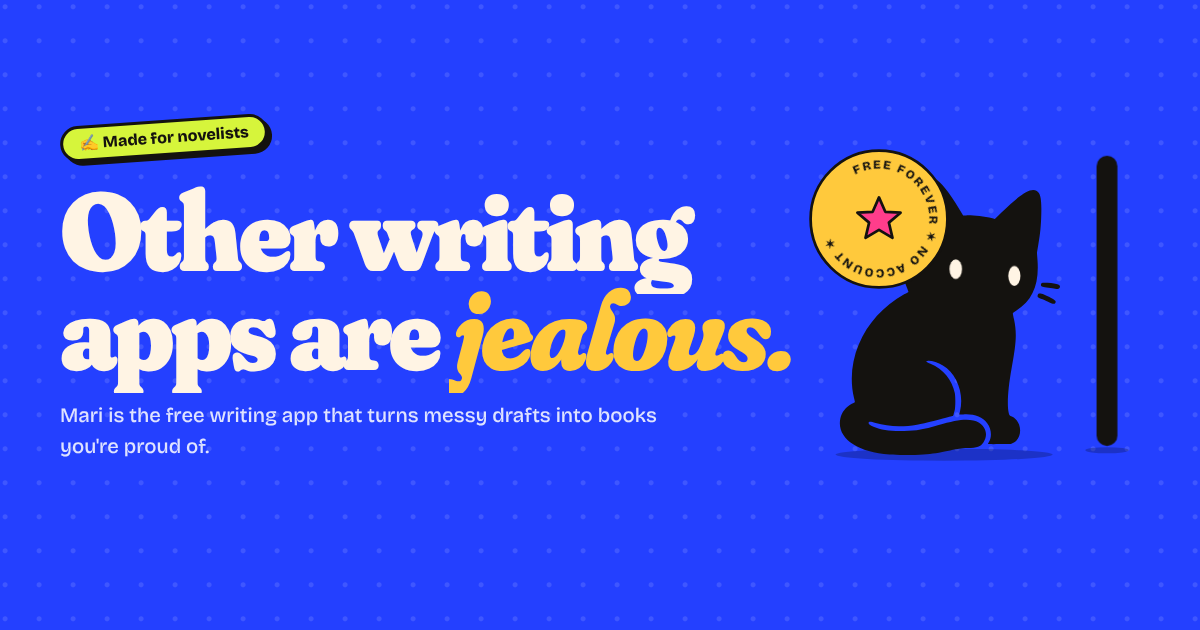
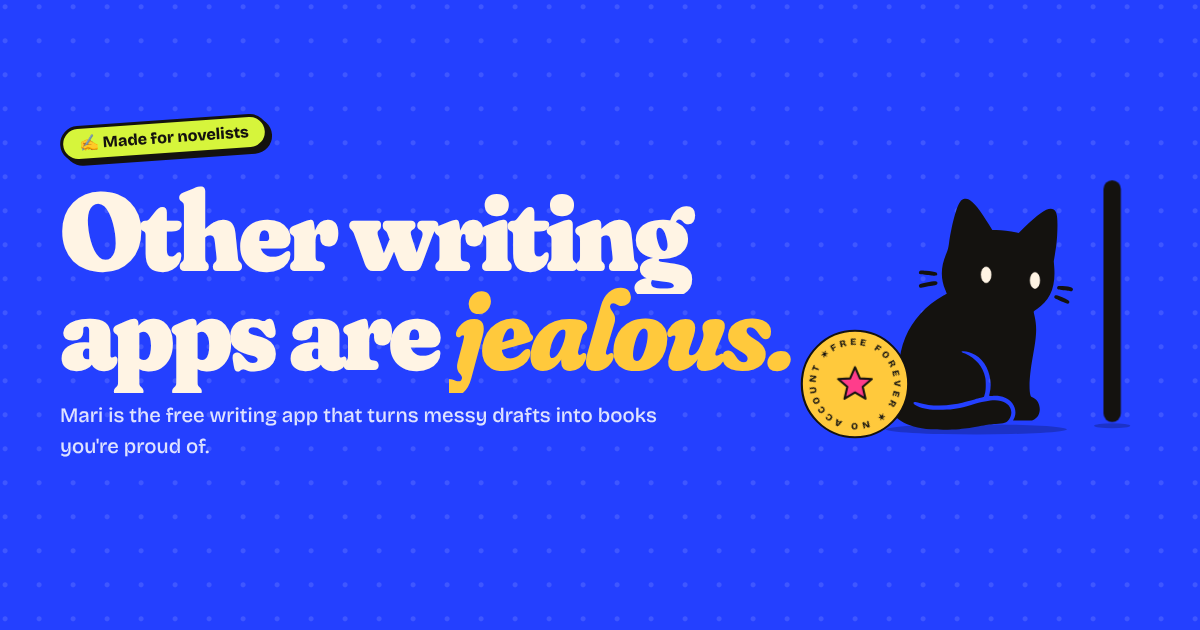
Add the Russian copy, a Russian share page and share pictures
The Russian was written by three translators in different voices, then
chosen and polished by an editor and checked by a proofreader. It uses
the app's own Russian words (Ящик for the drawer) and ties short words
to the next one so none hangs at a line end. /ru/ carries Russian link
previews for Telegram and VK and sends people on to the page in Russian.

Changed region(s): [[0.6475, 0.2111, 0.9558, 0.754]]

diff --git a/docs/index.html b/docs/index.html
@@ -75,6 +75,9 @@ html:lang(ru) {
   --sans: "Onest", "Bricolage Grotesque", system-ui, -apple-system, "Segoe UI", sans-serif;
 }
 html:lang(ru) h1, html:lang(ru) h2, html:lang(ru) h3 { letter-spacing: -.03em; line-height: .92; }
+/* Russian words run long («Переписывай», «программы»): headings step down a size so every word fits its column */
+html:lang(ru) .beat h3 { font-size: clamp(2.3rem, 4.4vw, 4.2rem); }
+html:lang(ru) .reasons-head { font-size: clamp(2.6rem, 7vw, 6.4rem); }
 
 /* while the language is being worked out, the hero's words wait (never longer than 2s) */
 .i18n-wait .hero-copy, .i18n-wait .nav .btn, .i18n-wait .shot .sticker { visibility: hidden; animation: i18n-show 0s 2s forwards; }
@@ -230,7 +233,7 @@ h1 em, h2 em, h3 em { font-style: italic; font-weight: 800; }
 @keyframes twR { 50% { transform: rotate(9deg); } }
 
 .badge {
-  position: absolute; z-index: 3; left: -6%; top: 2%;
+  position: absolute; z-index: 3; left: -8%; top: 40%;
   width: clamp(110px, 12vw, 150px); aspect-ratio: 1;
 }
 .badge svg { width: 100%; height: 100%; overflow: visible; }
@@ -238,7 +241,7 @@ h1 em, h2 em, h3 em { font-style: italic; font-weight: 800; }
 .badge text { font: 800 13.5px var(--sans); letter-spacing: .14em; fill: var(--ink); }
 @keyframes spin { to { transform: rotate(360deg); } }
 .bubble {
-  position: absolute; z-index: 4; right: 2%; top: -2%;
+  position: absolute; z-index: 4; right: -2%; top: -4%;
   max-width: 13em; padding: .6rem 1rem;
   border: var(--line); border-radius: 20px 20px 4px 20px;
   background: var(--paper); color: var(--ink);
@@ -418,7 +421,7 @@ footer nav a:hover { color: var(--pink); }
   .cta .btn { width: 100%; }
   .hero-art { max-width: 300px; }
   .bubble { font-size: 1.3rem; }
-  .badge { left: -4%; }
+  .badge { left: -6%; }
   .shot .sticker { display: none; }
   .beat { box-shadow: 6px 6px 0 var(--ink); }
   .peek { width: 110px; top: -62px; }
@@ -648,7 +651,77 @@ footer nav a:hover { color: var(--pink); }
    change it here. */
 window.I18N = (() => {
   const RU = {
-
+    "meta.title": "Mari · Другие программы нервно курят",
+    "meta.description": "Мари превращает сырой черновик в книгу, которой хочется хвастаться. Бесплатная программа для писателей на Windows, macOS и Linux.",
+    "nav.home": "Мари, в\u00a0начало страницы",
+    "nav.cta": "Скачать",
+    "lang.label": "Язык",
+    "hero.sticker": "✍ Для романистов",
+    "hero.h1": "Другие программы <em class=\"gold\">нервно курят.</em>",
+    "hero.sub": "Мари превращает твой сырой черновик в\u00a0книгу, которой хочется хвастаться. И\u00a0не\u00a0берёт за\u00a0это ни\u00a0копейки.",
+    "hero.cta": "Скачать бесплатно",
+    "hero.platforms": "Windows · Mac · Linux",
+    "hero.badge": "БЕСПЛАТНО ✶ БЕЗ АККАУНТА ✶",
+    "hero.petLabel": "Погладить Мари",
+    "cat.hello": "Привет, я\u00a0Мари. Погладь меня.",
+    "cat.line1": "Мрр?",
+    "cat.line2": "У\u00a0тебя дыра в\u00a0сюжете. Прикройся.",
+    "cat.line3": "Это наречие? Под нож.",
+    "cat.line4": "Третья глава сыровата. Уж\u00a0я-то знаю.",
+    "cat.line5": "Я\u00a0посидела на\u00a0клавиатуре. Не\u00a0благодари.",
+    "cat.line6": "Убей своих любимцев. Кроме меня.",
+    "cat.line7": "Делу время, котику час.",
+    "shot.alt": "Окно Мари с\u00a0открытой главой: фрагменты размечены цветом, слева список глав, справа карта главы",
+    "shot.s1": "Твоя книга. При параде.",
+    "shot.s2": "100% бесплатно",
+    "band.1": "Бесплатно навсегда",
+    "band.2": "Без регистрации",
+    "band.3": "Без подписки",
+    "band.4": "Файлы остаются у\u00a0тебя",
+    "band.5": "Windows, Mac и\u00a0Linux",
+    "band.6": "Кошка в\u00a0комплекте",
+    "reasons.h2": "Четыре причины сжечь <em>мосты.</em>",
+    "b1.h3": "Читай глазами <em>редактора.</em>",
+    "b1.p": "Отмечай, где текст поёт, где провисает и\u00a0что стоит не\u00a0на\u00a0своём месте. Прямо на\u00a0странице.",
+    "b1.alt": "Фрагменты главы размечаются разными цветами",
+    "b2.h3": "Переписывай <em>без страха.</em>",
+    "b2.p": "Пробуй новый вариант прямо рядом со\u00a0старым. Ни\u00a0одна заменённая версия не\u00a0пропадёт.",
+    "b2.alt": "Два варианта фрагмента рядом, изменённые слова выделены",
+    "b3.h3": "Убей своих любимцев. Пусть сыграют <em>в\u00a0ящик.</em>",
+    "b3.p": "Вырезанные сцены летят в\u00a0«Ящик», а\u00a0не\u00a0в\u00a0корзину. Достанешь, когда захочешь.",
+    "b3.alt": "Вырезанный фрагмент уходит в\u00a0«Ящик», а\u00a0потом его достают и\u00a0перечитывают",
+    "b4.h3": "А\u00a0теперь просто <em>пиши.</em>",
+    "b4.p": "Одна клавиша, и\u00a0исчезает всё, кроме твоих слов.",
+    "b4.alt": "Режим фокусировки: на\u00a0экране ничего, кроме текста",
+    "trailer.h2": "Мари <em>в\u00a0деле.</em>",
+    "dl.pixelAlt": "Кошка Мари моргает и\u00a0вылизывает лапку",
+    "dl.kick": "Скачать",
+    "dl.h2": "Второй черновик тебя заждался.",
+    "dl.lede": "Мари работает на\u00a0Windows, macOS и\u00a0Linux. Выбирай свою систему и\u00a0садись писать.",
+    "dl.rec": "Твой компьютер",
+    "dl.win.btn": "Скачать установщик",
+    "dl.win.alt": "Или <a data-asset=\"msi\" href=\"https://github.com/spacekestrel/mari/releases/latest\">.msi</a>, если на\u00a0работе нужен именно он",
+    "dl.mac.btn": "Apple silicon (M1 и\u00a0новее)",
+    "dl.mac.alt": "Mac постарше? Бери <a data-asset=\"dmg-intel\" href=\"https://github.com/spacekestrel/mari/releases/latest\">версию для Intel</a>",
+    "dl.mac.intelBtn": "Mac на\u00a0Intel",
+    "dl.mac.armPrefix": "Mac поновее? Бери ",
+    "dl.mac.armLink": "версию для Apple silicon",
+    "dl.linux.btn": ".AppImage, работает везде",
+    "dl.linux.alt": "Или <a data-asset=\"deb\" href=\"https://github.com/spacekestrel/mari/releases/latest\">.deb</a> для Debian и\u00a0Ubuntu, <a data-asset=\"rpm\" href=\"https://github.com/spacekestrel/mari/releases/latest\">.rpm</a> для Fedora",
+    "dl.mobile": "Мари живёт на\u00a0компьютере, а\u00a0не\u00a0в\u00a0телефоне. Открой эту страницу на\u00a0ноутбуке или ПК\u00a0и\u00a0скачай её.",
+    "dl.warn.summary": "Windows или macOS ворчит при первом запуске? Тебе сюда.",
+    "dl.warn.p1": "Apple и\u00a0Microsoft берут деньги за\u00a0сертификат, который отключает их\u00a0предупреждения. Мари бесплатная и\u00a0платить не\u00a0стала, вот обе системы разок и\u00a0ворчат. С\u00a0файлом всё в\u00a0порядке.",
+    "dl.warn.p2": "<strong>Windows</strong> пугает: «Система Windows защитила ваш компьютер». Нажми <em>Подробнее</em>, а\u00a0потом <em>Выполнить в\u00a0любом случае</em>.",
+    "dl.warn.p3": "<strong>macOS</strong> уверяет, что Мари повреждена. Не\u00a0верь. Перетащи её\u00a0в\u00a0папку «Программы», открой <em>Терминал</em>, один раз вставь эту строку, а\u00a0потом открывай Мари как обычно:",
+    "dl.copy": "Копировать",
+    "dl.copied": "Скопировано",
+    "dl.beta": "Версия <span data-version>0.2.7</span>. Можно работать каждый день, но\u00a0кое-где ещё попадаются шероховатости.",
+    "dl.bug": "Попалась? Напиши нам",
+    "footer.tagline": "Мари вообще-то кошка. <em>А\u00a0ещё так зовут программу для писателей.</em>",
+    "footer.github": "GitHub",
+    "footer.downloads": "Все загрузки",
+    "footer.bug": "Сообщить об\u00a0ошибке",
+    "footer.license": "AGPL-3.0"
   };
 
   // English lines that only the script shows (the cat's lines, button states)

diff --git a/docs/ru/index.html b/docs/ru/index.html
@@ -1,0 +1,21 @@
+<!doctype html>
+<html lang="ru">
+<head>
+<meta charset="utf-8">
+<meta name="viewport" content="width=device-width, initial-scale=1">
+<title>Mari · Другие программы нервно курят</title>
+<meta name="description" content="Мари превращает сырой черновик в книгу, которой хочется хвастаться. Бесплатная программа для писателей на Windows, macOS и Linux.">
+<meta property="og:type" content="website">
+<meta property="og:locale" content="ru_RU">
+<meta property="og:title" content="Mari · Другие программы нервно курят">
+<meta property="og:description" content="Мари превращает твой сырой черновик в книгу, которой хочется хвастаться. И не берёт за это ни копейки.">
+<meta property="og:url" content="https://spacekestrel.github.io/mari/ru/">
+<meta property="og:image" content="https://spacekestrel.github.io/mari/og-ru.png">
+<meta name="twitter:card" content="summary_large_image">
+<link rel="canonical" href="https://spacekestrel.github.io/mari/?lang=ru">
+<link rel="icon" type="image/png" href="../favicon.png">
+<meta http-equiv="refresh" content="0; url=../?lang=ru">
+<script>location.replace("../?lang=ru" + location.hash);</script>
+</head>
+<body style="background:#2440ff"><a href="../?lang=ru" style="color:#fff4e4;font:700 20px sans-serif">Мари</a></body>
+</html>
